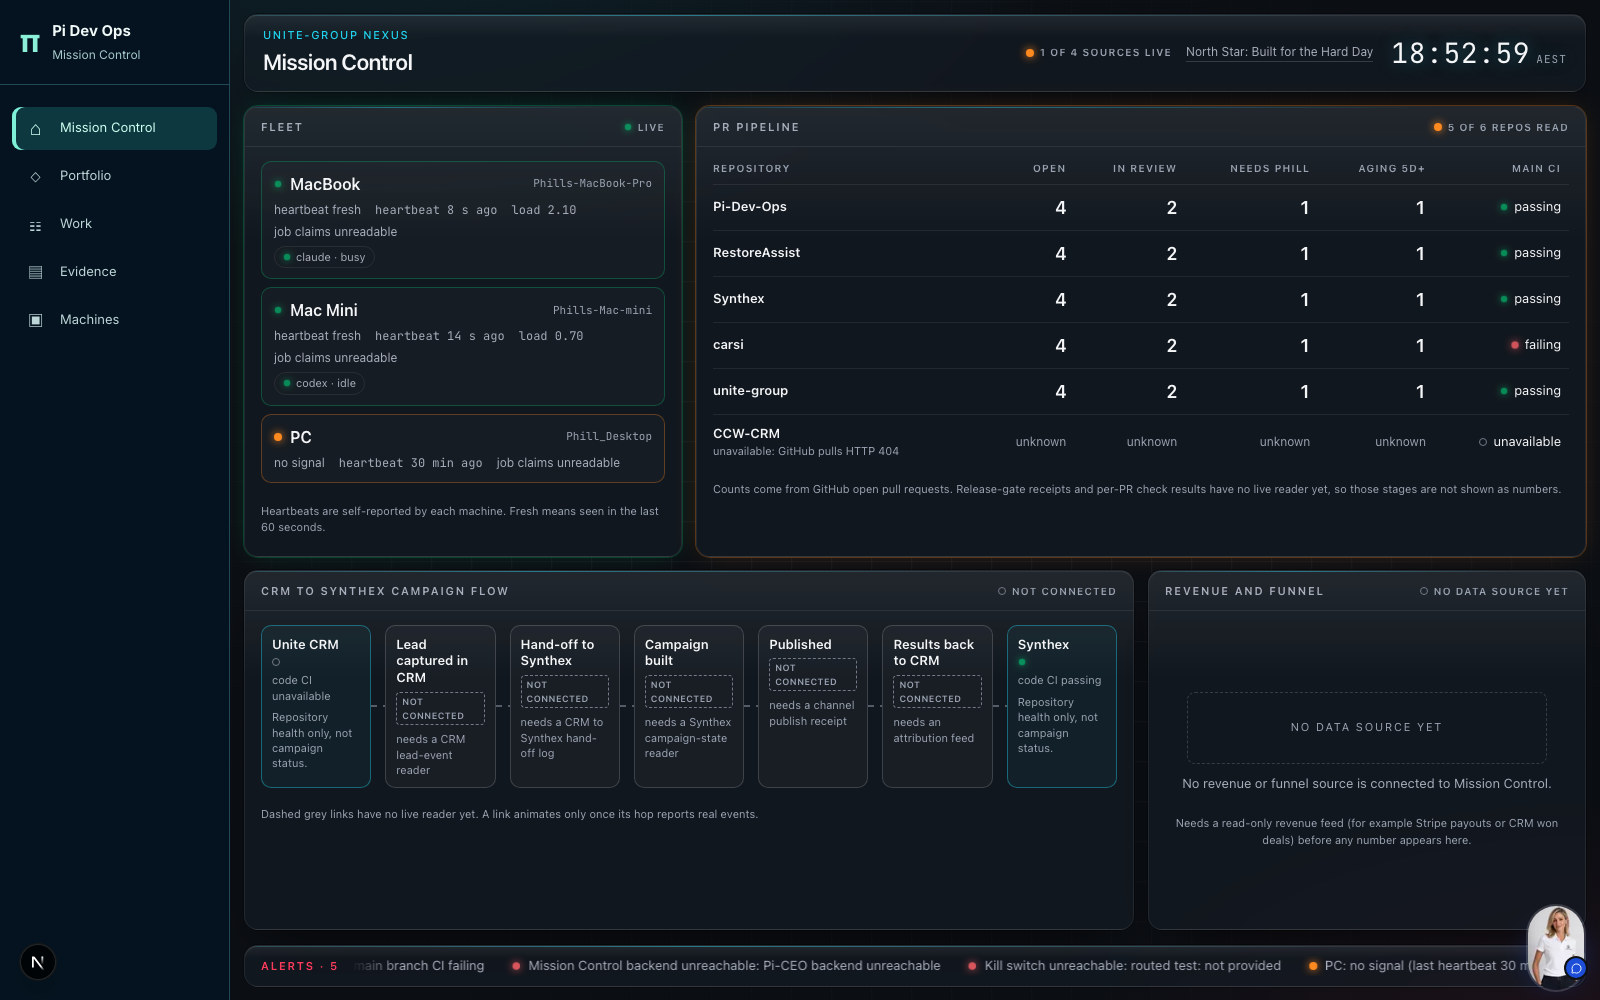
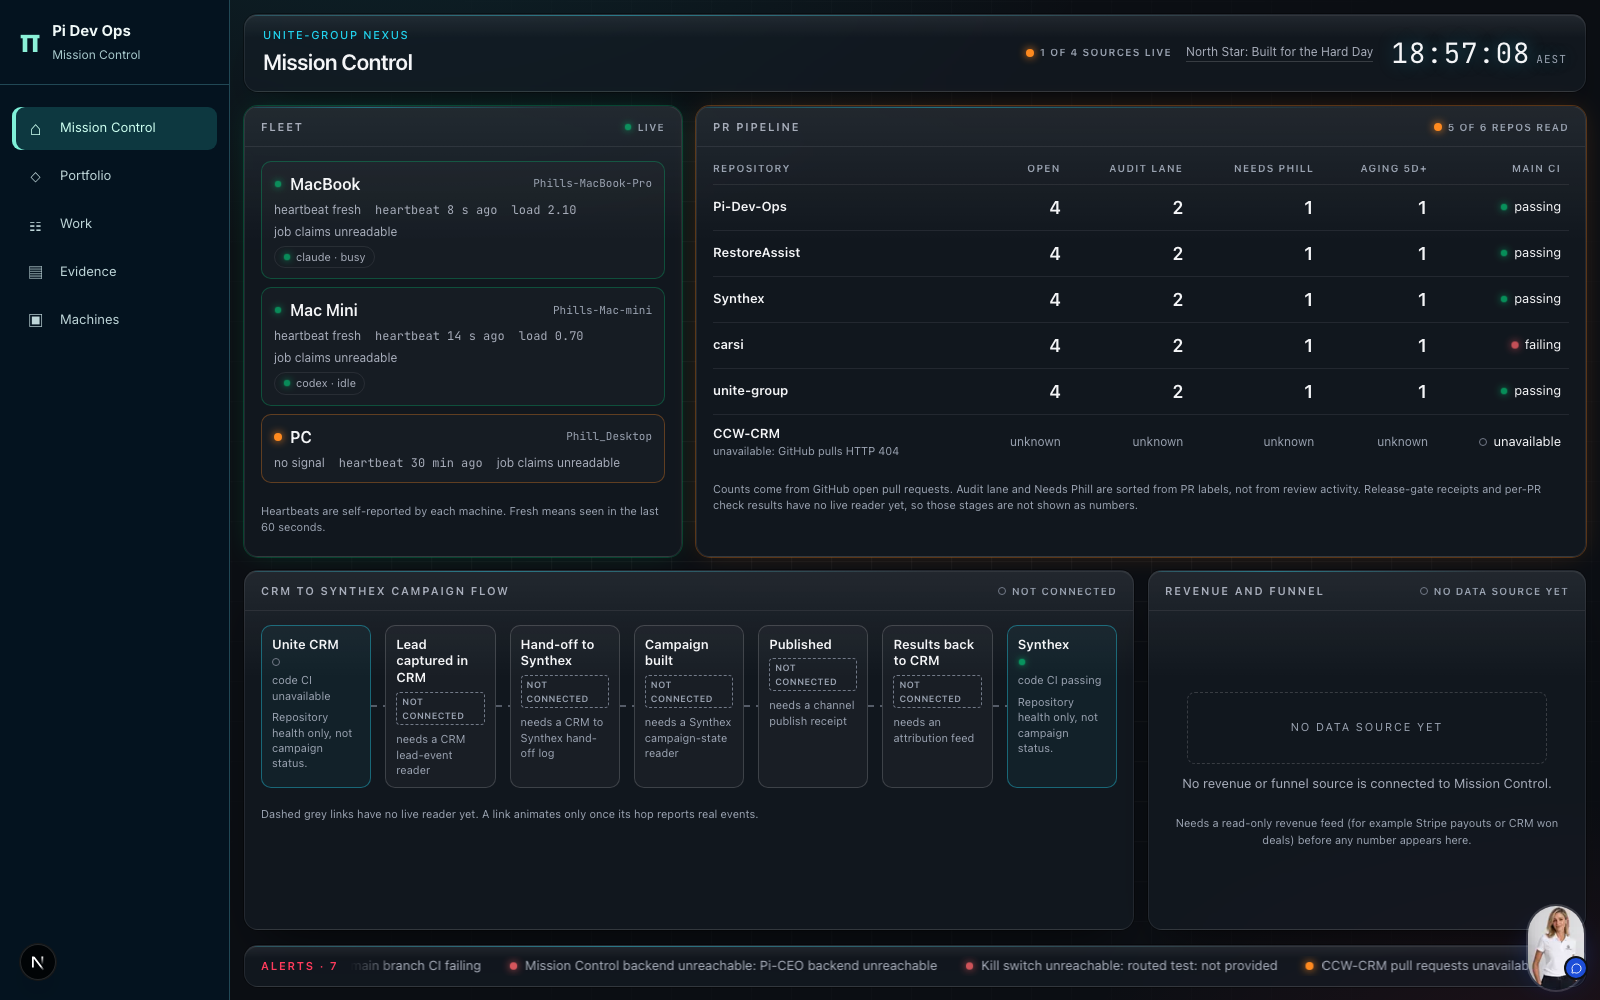
fix(dashboard): wall labels lane counts honestly and alerts on unreadable GitHub evidence
Codex review (two P2): the audit-lane count was shown as "In review", and with only GitHub reads failing the ticker could read all clear. Renamed the column to Audit lane, raised unavailable PR and CI reads as alerts, and the all-clear now needs every repository read.

diff --git a/dashboard/lib/control/command-wall.ts b/dashboard/lib/control/command-wall.ts
@@ -87,10 +87,14 @@ export interface PrRow {
   /** Null = the read failed; never shown as zero. */
   open: number | null;
   capped: boolean;
-  review: number | null;
+  /** Flow-board "audit" column: a label classification, not review activity. */
+  auditLane: number | null;
   needsPhill: number | null;
   aging: number | null;
   ci: { tone: Tone; text: string };
+  /** Why main-branch CI could not be read; null when it was read. */
+  ciReason: string | null;
+  /** Why the pull requests could not be read; null when they were read. */
   reason: string | null;
 }
 
@@ -108,17 +112,18 @@ export function prRow(repo: string, board: RepoBoard | null | undefined, readFai
   const ci = board?.ci.status === "ok"
     ? { tone: CI_TEXT[board.ci.value.state][0], text: CI_TEXT[board.ci.value.state][1] }
     : { tone: "idle" as Tone, text: "unavailable" };
+  const ciReason = board?.ci.status === "unavailable" ? board.ci.reason : board ? null : readFailure ?? null;
   if (!board || board.pull_requests.status !== "ok" || !board.ok) {
     const reason = !board ? readFailure ?? "not read yet"
       : board.pull_requests.status === "unavailable" ? board.pull_requests.reason : board.error ?? "board read failed";
-    return { repo, name, open: null, capped: false, review: null, needsPhill: null, aging: null, ci, reason };
+    return { repo, name, open: null, capped: false, auditLane: null, needsPhill: null, aging: null, ci, ciReason, reason };
   }
   const c = board.columns;
   return {
-    repo, name, ci, reason: null,
+    repo, name, ci, ciReason, reason: null,
     open: board.pull_requests.value.count,
     capped: board.pull_requests.value.capped,
-    review: c.audit.length,
+    auditLane: c.audit.length,
     needsPhill: c.phill.length,
     aging: c.aging.length,
   };
@@ -146,6 +151,18 @@ function queueAlerts(queue: MCQueue | undefined): Alert[] {
   return (queue.urgent ?? 0) > 0 ? [{ id: "queue-urgent", tone: "bad", text: `${queue.urgent} urgent ticket(s) in the queue` }] : [];
 }
 
+/** Unreadable PR or CI evidence is an alert. A repo still on its first read is not. */
+function githubAlerts(p: PrRow): Alert[] {
+  const out: Alert[] = [];
+  if (p.open === null && p.reason && p.reason !== "not read yet") {
+    out.push({ id: `pr-${p.repo}`, tone: "warn", text: `${p.name} pull requests unavailable: ${p.reason}` });
+  }
+  if (p.ciReason && p.ciReason !== p.reason) {
+    out.push({ id: `cidown-${p.repo}`, tone: "warn", text: `${p.name} main branch CI unavailable: ${p.ciReason}` });
+  }
+  return out;
+}
+
 export interface AlertInputs {
   sources: { id: string; label: string; state: SourceState; reason: string | null }[];
   observability?: MCObservability;
@@ -170,7 +187,8 @@ export function deriveAlerts(input: AlertInputs): Alert[] {
     .map((t) => ({ id: `fleet-${t.host}`, tone: t.tone === "bad" ? "bad" as Tone : "warn" as Tone, text: `${t.label}: ${t.status} (last heartbeat ${ageText(t.ageSeconds)} ago)` }));
   const ci = input.prs.filter((p) => p.ci.tone === "bad")
     .map((p) => ({ id: `ci-${p.repo}`, tone: "bad" as Tone, text: `${p.name} main branch CI ${p.ci.text}` }));
-  const all = [...kill, ...observabilityAlerts(input.observability), ...queueAlerts(input.queue), ...ci, ...fleet, ...sourceAlerts];
+  const github = input.prs.flatMap((p) => githubAlerts(p));
+  const all = [...kill, ...observabilityAlerts(input.observability), ...queueAlerts(input.queue), ...ci, ...github, ...fleet, ...sourceAlerts];
   const rank: Record<Tone, number> = { bad: 0, warn: 1, idle: 2, ok: 3 };
   return all.sort((a, b) => rank[a.tone] - rank[b.tone]);
 }

diff --git a/dashboard/__tests__/command-wall.test.ts b/dashboard/__tests__/command-wall.test.ts
@@ -69,7 +69,7 @@ describe("fleet tiles", () => {
 describe("PR rows", () => {
   it("reads open, review, needs-Phill and aging counts from the board", () => {
     const r = prRow("CleanExpo/Synthex", board());
-    expect(r).toMatchObject({ name: "Synthex", open: 3, review: 1, needsPhill: 2, aging: 0, reason: null });
+    expect(r).toMatchObject({ name: "Synthex", open: 3, auditLane: 1, needsPhill: 2, aging: 0, reason: null });
     expect(r.ci).toEqual({ tone: "ok", text: "passing" });
   });
 
@@ -81,9 +81,10 @@ describe("PR rows", () => {
       ci: { status: "unavailable", reason: "GITHUB_TOKEN not set" },
     });
     const r = prRow("CleanExpo/Synthex", failed);
-    expect([r.open, r.review, r.needsPhill, r.aging]).toEqual([null, null, null, null]);
+    expect([r.open, r.auditLane, r.needsPhill, r.aging]).toEqual([null, null, null, null]);
     expect(r.reason).toBe("GITHUB_TOKEN not set");
     expect(r.ci.text).toBe("unavailable");
+    expect(r.ciReason).toBe("GITHUB_TOKEN not set");
     expect(prRow("CleanExpo/x", null, "flow board HTTP 500").reason).toBe("flow board HTTP 500");
   });
 
@@ -121,6 +122,16 @@ describe("alerts", () => {
     expect(text).toContain("Backend unreachable: Pi-CEO backend unreachable");
     expect(alerts[0].tone).toBe("bad");
     expect(alerts.at(-1)?.tone).toBe("warn");
+  });
+
+  it("an unavailable GitHub read is an alert, so the ticker can never read all clear over it", () => {
+    const down = prRow("CleanExpo/RestoreAssist", null, "flow board HTTP 500");
+    const ciDown = prRow("CleanExpo/Synthex", board({ ci: { status: "unavailable", reason: "GitHub CI HTTP 502" } }));
+    const pending = prRow("CleanExpo/carsi", null);
+    const text = deriveAlerts({ ...base, prs: [down, ciDown, pending] }).map((a) => a.text);
+    expect(text).toContain("RestoreAssist pull requests unavailable: flow board HTTP 500");
+    expect(text).toContain("Synthex main branch CI unavailable: GitHub CI HTTP 502");
+    expect(text.some((t) => t.startsWith("carsi"))).toBe(false);
   });
 
   it("an unreadable Linear queue is an alert, not a quiet queue", () => {

diff --git a/dashboard/components/control/wall/PrPipelineScreen.tsx b/dashboard/components/control/wall/PrPipelineScreen.tsx
@@ -15,7 +15,7 @@ function Row({ row }: { row: PrRow }) {
         {row.reason && <span className={styles.reason}>unavailable: {row.reason}</span>}
       </td>
       <td><Count value={row.open} capped={row.capped} /></td>
-      <td><Count value={row.review} /></td>
+      <td><Count value={row.auditLane} /></td>
       <td><Count value={row.needsPhill} /></td>
       <td><Count value={row.aging} /></td>
       <td><span className={styles.ciCell}><Dot tone={row.ci.tone} />{row.ci.text}</span></td>
@@ -32,7 +32,7 @@ export default function PrPipelineScreen({ rows }: { rows: PrRow[] }) {
           <tr>
             <th scope="col">Repository</th>
             <th scope="col">Open</th>
-            <th scope="col">In review</th>
+            <th scope="col">Audit lane</th>
             <th scope="col">Needs Phill</th>
             <th scope="col">Aging 5d+</th>
             <th scope="col">Main CI</th>
@@ -41,8 +41,9 @@ export default function PrPipelineScreen({ rows }: { rows: PrRow[] }) {
         <tbody>{rows.map((r) => <Row key={r.repo} row={r} />)}</tbody>
       </table>
       <p className={styles.footnote}>
-        Counts come from GitHub open pull requests. Release-gate receipts and per-PR check results have
-        no live reader yet, so those stages are not shown as numbers.
+        Counts come from GitHub open pull requests. Audit lane and Needs Phill are sorted from PR labels,
+        not from review activity. Release-gate receipts and per-PR check results have no live reader yet,
+        so those stages are not shown as numbers.
       </p>
     </>
   );

diff --git a/dashboard/components/control/wall/CommandWall.tsx b/dashboard/components/control/wall/CommandWall.tsx
@@ -48,9 +48,10 @@ export default function CommandWall() {
     fleet: tiles,
     prs: rows,
   });
-  const allClear = liveCount === sources.length
-    ? `No active alerts from ${sources.length} connected sources`
-    : `No alerts raised yet; ${sources.length - liveCount} of ${sources.length} sources still connecting`;
+  const reposRead = rows.filter((r) => r.open !== null && r.ciReason === null).length;
+  const allClear = liveCount === sources.length && reposRead === rows.length
+    ? `No active alerts from ${sources.length} connected sources and ${rows.length} repositories`
+    : `No alerts raised yet; ${sources.length - liveCount + rows.length - reposRead} of ${sources.length + rows.length} reads still connecting`;
   const pr = prTone(rows);
   const fleetFailure = wall.state === "unreachable" || wall.state === "no_source" ? `Fleet ${STATE_TEXT[wall.state]}: ${wall.reason ?? "no reason given"}` : null;
 

diff --git a/dashboard/__tests__/command-wall-screen.test.tsx b/dashboard/__tests__/command-wall-screen.test.tsx
@@ -75,6 +75,9 @@ describe("CommandWall", () => {
     expect((await within(prs).findAllByText(/unavailable: GITHUB_TOKEN not set/)).length).toBe(6);
     expect(within(prs).queryByText("0")).toBeNull();
     expect(within(prs).getAllByText("unknown").length).toBe(24);
+    // Lane counts are label classifications, never presented as review activity.
+    expect(within(prs).queryByText("In review")).toBeNull();
+    expect(within(prs).getByText("Audit lane")).toBeTruthy();
   });
 
   it("the ticker names failed sources and never claims all clear while they are down", async () => {
